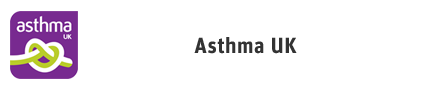
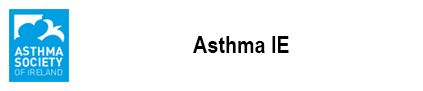
Replaced lung and asthma buttons

Changed region(s): [[0.0, 0.0879, 0.1844, 0.9011], [0.4303, 0.3956, 0.7069, 0.5934]]

diff --git a/patient-information.html b/patient-information.html
@@ -23,8 +23,8 @@
 		</div>
 		<p class="more-info">If you would like to know more about asthma or COPD, please visit the following sites, or contact your healthcare professional:</p>
 		<div class="patient-buttons">
-			<a target="_blank" href="http://asthma.org.uk"><img class="asthma-button" src="assets/img/patient-information/asthma-button.png" width="423" height="91" alt=""></a>
-			<a target="_blank" href="http://blf.org.uk"><img class="lung-foundation-button" src="assets/img/patient-information/lung-foundation-button.png" width="423" height="91" alt=""></a>
+			<a target="_blank" href="https://www.asthma.ie"><img class="asthma-button" src="assets/img/patient-information/asthma-button.png" width="423" height="91" alt=""></a>
+			<a target="_blank" href="http://www.irishlungfoundation.ie"><img class="lung-foundation-button" src="assets/img/patient-information/lung-foundation-button.png" width="423" height="91" alt=""></a>
 		</div>
 		<p class="prescribed-duoresp">If you are a patient that has been prescribed DuoResp Spiromax® (budesonide/formoterol), then please see below.</p>
 		<div class="patient-btn-container">
